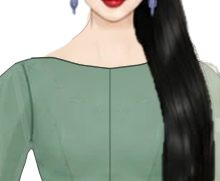
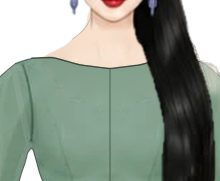
Stop the one-shoulder dupatta cutting across wide sleeves
With a flared or bell sleeve the dupatta's edge cut diagonally across the
sleeve, and the cloth over the arm had grown opaque with a pale notch at
the shoulder. Wide sleeves now sit over the dupatta below the shoulder
(soft join at the cap), and the cloth over the outstretched arm is one
sheer layer with a soft edge for narrower sleeves. Previews re-rendered.

Claude-Session: https://claude.ai/code/session_01TYPUusnuhtBJ7Z9aDFcSGW

Changed region(s): [[0.9273, 0.4972, 1.0, 1.0]]

diff --git a/src/components/MannequinStage.tsx b/src/components/MannequinStage.tsx
@@ -3761,6 +3761,23 @@ interface BlouseDetailsResult {
                     <g mask="url(#dupatta-not-over-arm)">{paintedImage(PV.dupattaOneShoulder)}</g>
                   </g>
                 </>
+              ) : !isBack && sleevePts('r') && ['flared', 'bell'].includes(bodiceSleeveId) ? (
+                // a wide sleeve sits over the dupatta below the shoulder, so the cloth doesn't cut across it
+                <>
+                  <mask id="dupatta-under-wide-sleeve" maskUnits="userSpaceOnUse" x="0" y="0" width={STAGE_W} height={STAGE_H}>
+                    <rect width={STAGE_W} height={STAGE_H} fill="#fff" />
+                    <clipPath id="below-shoulder-cap">
+                      <rect x="0" y="180" width={STAGE_W} height={STAGE_H} />
+                    </clipPath>
+                    <filter id="wide-sleeve-soft" x="-10%" y="-10%" width="120%" height="120%">
+                      <feGaussianBlur stdDeviation="2.5" />
+                    </filter>
+                    <g filter="url(#wide-sleeve-soft)">
+                      <path d={svgPath(sleevePts('r')!)} fill="#000" clipPath="url(#below-shoulder-cap)" />
+                    </g>
+                  </mask>
+                  <g mask="url(#dupatta-under-wide-sleeve)">{paintedImage(PV.dupattaOneShoulder)}</g>
+                </>
               ) : (
                 paintedImage(PV.dupattaOneShoulder)
               )}

diff --git a/scripts/painted-assets/fix_dupatta_shoulder.py b/scripts/painted-assets/fix_dupatta_shoulder.py
@@ -102,7 +102,8 @@ fill = CREAM[None, None, :] * light[..., None]
 edge = blur(blur(region.astype(float), 2), 2)
 a[..., :3] = np.where(hole[..., None], fill, a[..., :3])
 # sheer over the shoulder, gradually denser down the fall so it meets the painted cloth without a step
-sheer = 190 + 65 * np.clip((ys - 236) / 60, 0, 1)
+# (only along the fall itself: over the outstretched arm the cloth stays sheer so the sleeve shows)
+sheer = 190 + 65 * np.clip((ys - 236) / 60, 0, 1) * np.clip((306 - xs) / 8, 0, 1)
 a[..., 3] = np.where(hole, np.maximum(a[..., 3], sheer * np.clip(edge * 1.4, 0, 1)), a[..., 3])
 # the painted fall starts with a straight top edge (the sleeve hid what was above it); blend it into
 # the sheer cloth over the arm so the cloth gets gradually denser instead of changing at a line
@@ -111,6 +112,13 @@ t = np.clip((ys - 248) / 40, 0, 1)
 mix = sheer + (a[..., 3] - sheer) * t
 a[..., 3] = np.where(band, np.minimum(a[..., 3], mix), a[..., 3])
 a[..., :3] = np.where(band[..., None], a[..., :3] * t[..., None] + fill * (1 - t[..., None]), a[..., :3])
+
+# over the outstretched arm the whole strip is one sheer layer with a soft outer edge, so a wide
+# sleeve shows evenly through it instead of being cut by an opaque band with a hard edge
+over = (xs > 300) & (ys > 168) & (ys < 300) & region
+soft_a = blur(blur(a[..., 3], 3), 3)
+a[..., 3] = np.where(over, np.minimum(soft_a, 180), a[..., 3])
+a[..., :3] = np.where(over[..., None], a[..., :3] * 0.4 + CREAM * 0.6, a[..., :3])
 
 # the painting shades the top of the fall where the outstretched arm cast a shadow on it; with the
 # arm moved that reads as a grey band, so lift it to the fall's own cream, fading out below
